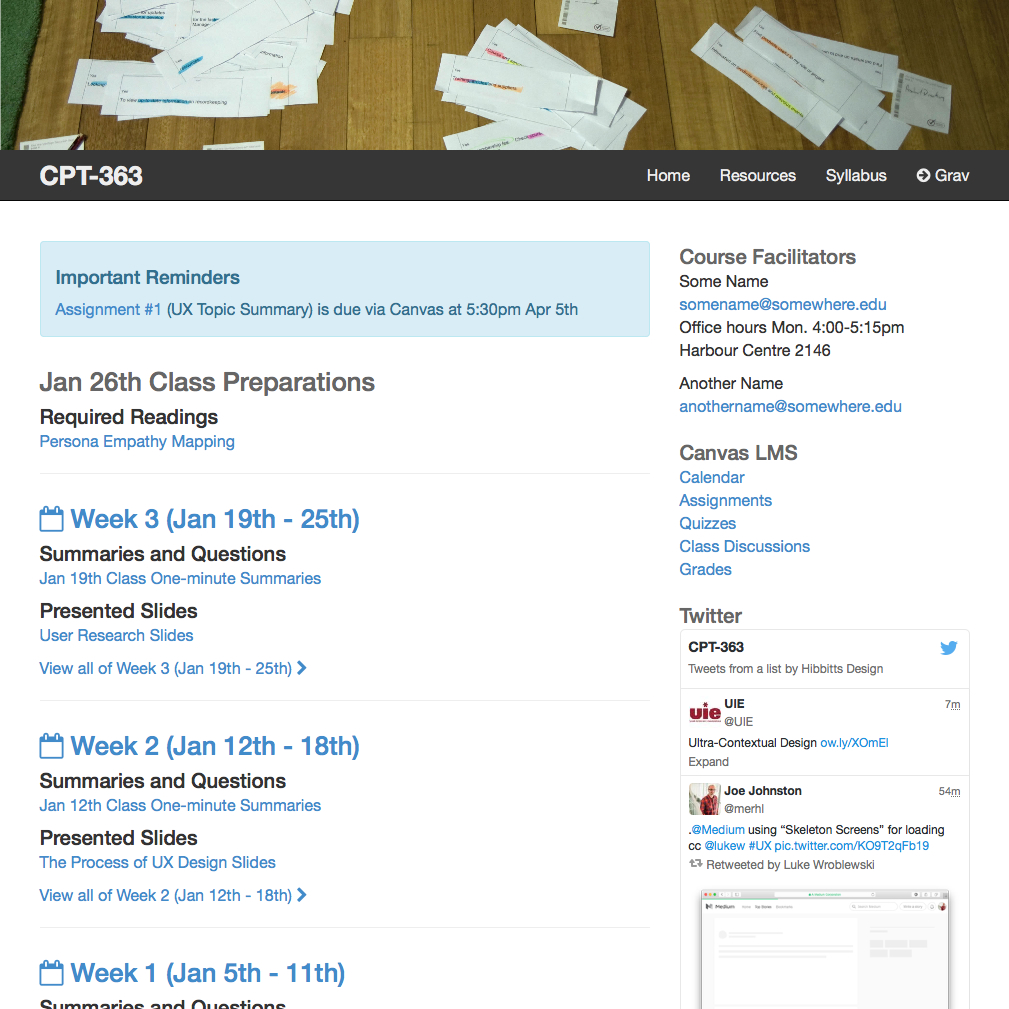
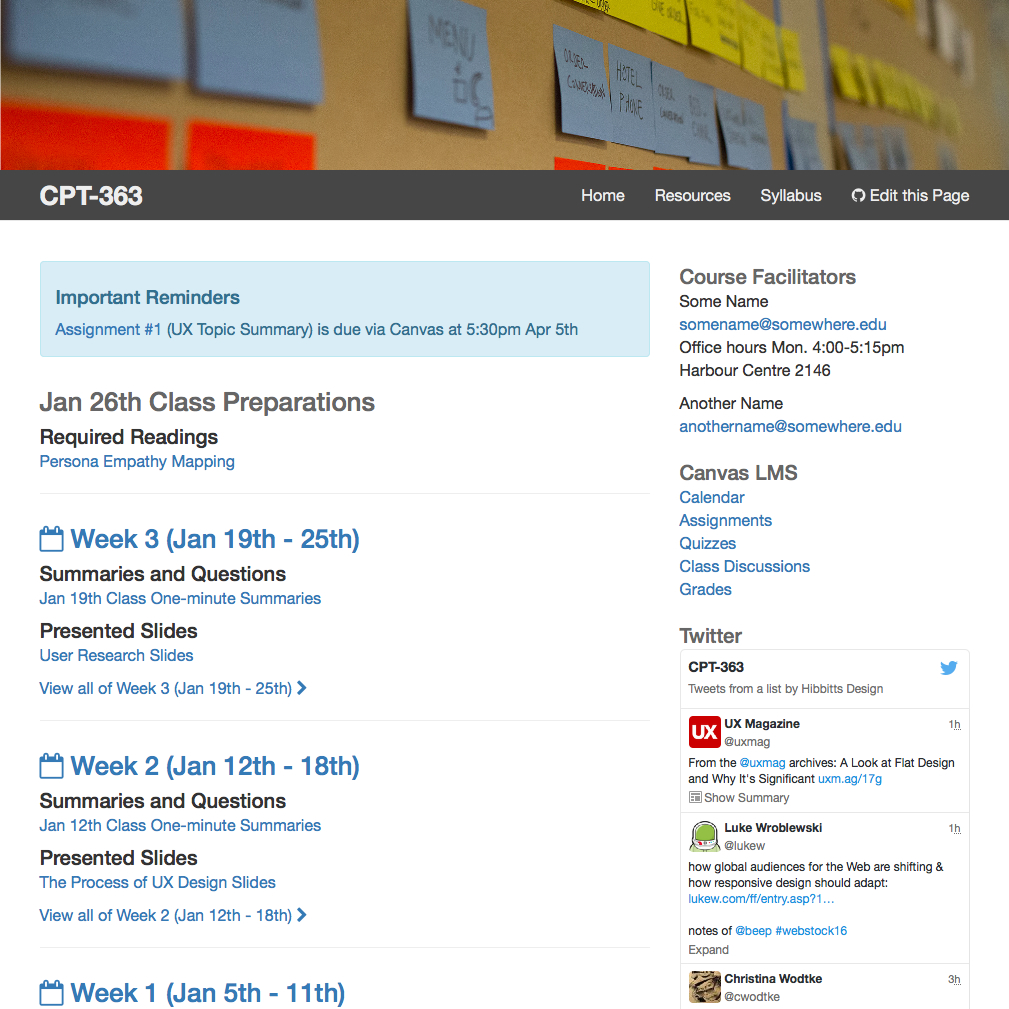
Example header image and screenshots updated.

diff --git a/README.md b/README.md
@@ -119,7 +119,7 @@ Once you have confirmed that Grav is running locally on your computer, the final
       -/page.md
     - /03.syllabus | page.html.twig
       -/page.md
-    - /headerimage | default.html.twig (Course Companion B3 theme element)
+    - /headerimage | default.html.twig
       -/default.md
 ```
 

diff --git a/pages/headerimage/default.md b/pages/headerimage/default.md
@@ -2,3 +2,4 @@
 routable: false
 ---
 File to be used for the header image above the menubar.
+Sample header image attribution: https://www.flickr.com/photos/nearsoft/21121893776/
